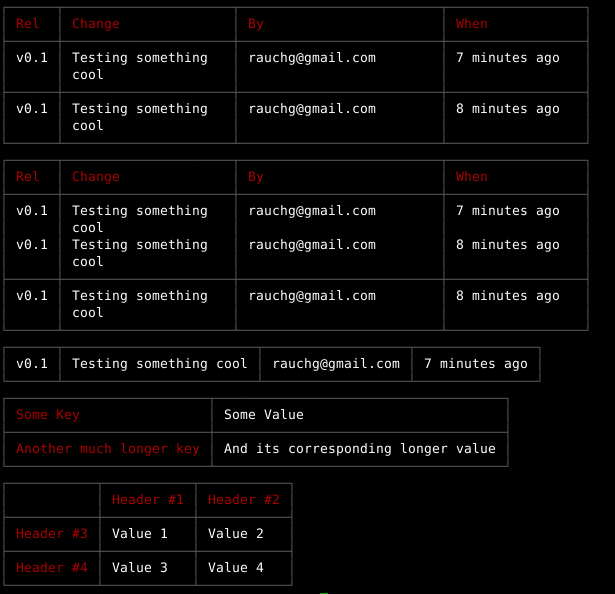
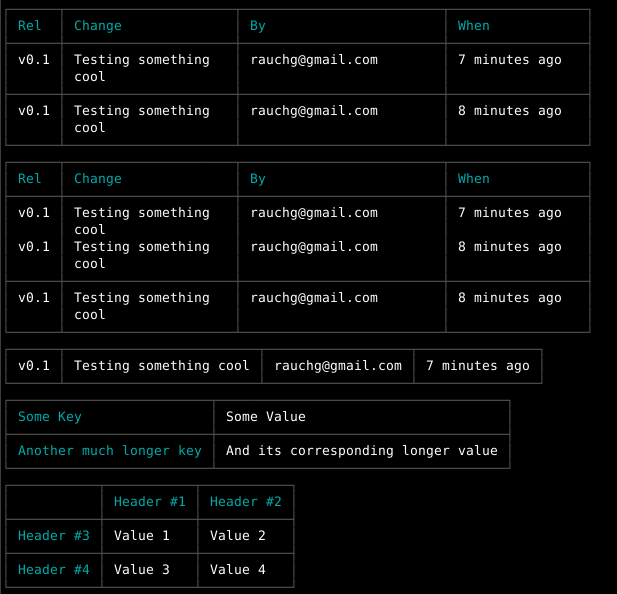
Updated default head color to cyan, changed README demo image to reflect.

Changed region(s): [[0.0, 0.0, 0.9577, 1.0], [0.7415, 0.3939, 0.9268, 0.4242]]

diff --git a/lib/index.js b/lib/index.js
@@ -43,7 +43,7 @@ function Table (options){
     , style: {
           'padding-left': 1
         , 'padding-right': 1
-        , head: ['red']
+        , head: ['cyan']
         , border: ['grey']
         , compact : false
       }
